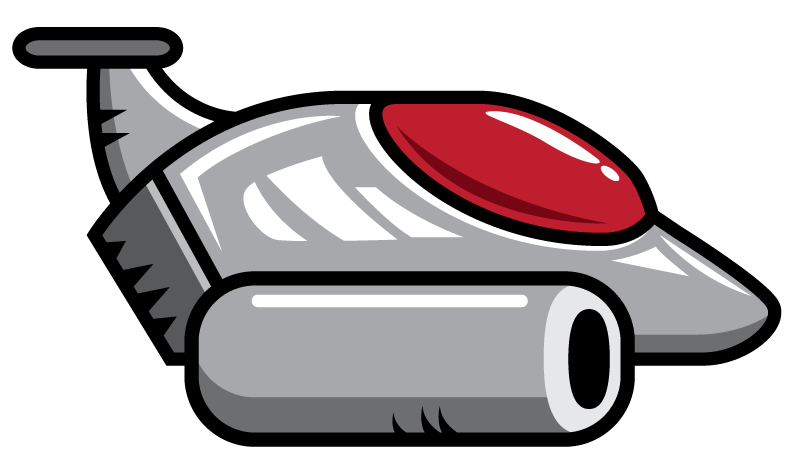
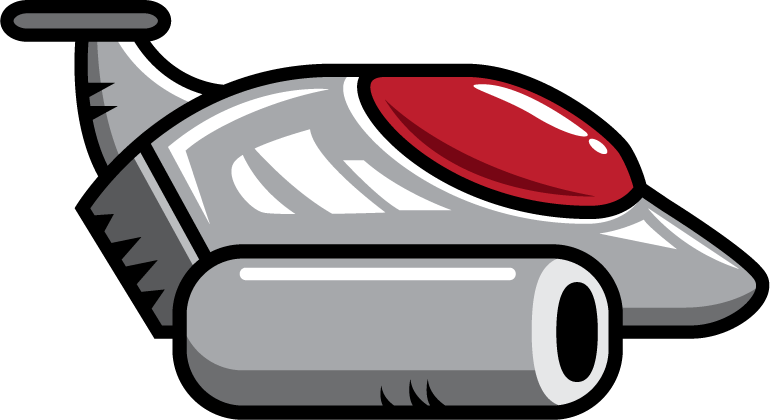
version 1.0 release

Changed region(s): [[0.0, 0.0, 1.0, 1.0]]

diff --git a/code/Level.py b/code/Level.py
@@ -1,3 +1,4 @@
+# code/Level.py
 import sys
 import math
 import random
@@ -41,8 +42,6 @@ class Level:
             clock.tick(60)
             self.window.fill((0, 0, 0)) 
             
-            player = next((ent for ent in self.entity_list if ent.name == 'Player'), None)
-            
             for event in pygame.event.get():
                 if event.type == pygame.QUIT:
                     pygame.quit()
@@ -56,8 +55,11 @@ class Level:
                             if self.menu_option == 0:
                                 self.reset_level() 
                             elif self.menu_option == 1:
-                                pygame.quit()
-                                sys.exit() 
+                                pygame.mixer_music.stop()
+                                return # Returns to the main menu instead of closing the game window
+
+            # Fetch the player entity after the event loop to ensure a fresh reference if reset_level was triggered
+            player = next((ent for ent in self.entity_list if ent.name == 'Player'), None)
 
             if player and not (self.game_over or self.victory):
                 if not player.is_falling and self.game_time > 0:
@@ -92,8 +94,10 @@ class Level:
                             self.entity_list.remove(ent)
 
                     elif ent.name in ['Enemy1', 'Enemy2']:
-                        # Collision with enemy triggers game over logic
-                        if not player.is_falling and player.rect.colliderect(ent.rect):
+                        player_hitbox = player.rect.inflate(-20, -20)
+                        enemy_hitbox = ent.rect.inflate(-20, -20)
+                        
+                        if not player.is_falling and player_hitbox.colliderect(enemy_hitbox):
                             player.is_falling = True
                             player.fuel = 0 
                             pygame.mixer_music.stop()
@@ -115,10 +119,8 @@ class Level:
             # Calculate zoom effect for the last 10 seconds
             time_zoom = 1.0
             if self.game_time <= 10 * 60 and self.game_time > 0 and not player.is_falling:
-                # Use sine wave to alternate scale between 1.0 and 1.3
                 time_zoom = 1.0 + abs(math.sin(pygame.time.get_ticks() / 150.0)) * 0.3
 
-            # Draw UI with larger fonts and yellow color. Time font is slightly larger (35) than fuel (25)
             self.level_text(35, f'{mins:02d}:{secs:02d}', C_YELLOW, (WIN_WIDTH - 70, 30), zoom=time_zoom)
             
             if player:
@@ -150,26 +152,21 @@ class Level:
         self.level_text(30, 'Sair', color_sair, (WIN_WIDTH // 2, WIN_HEIGHT // 2 + 50))
 
     def level_text(self, text_size: int, text: str, text_color: tuple, text_center_pos: tuple, zoom: float = 1.0):
-        # Create base font
         text_font = pygame.font.SysFont(name="Lucida Sans Typewriter", size=text_size, bold=True)
         
-        # Render main text and black outline text
         main_surf = text_font.render(text, True, text_color).convert_alpha()
         outline_surf = text_font.render(text, True, C_BLACK).convert_alpha()
         
-        # Scale surfaces if zoom is applied
         if zoom != 1.0:
             new_width = int(main_surf.get_width() * zoom)
             new_height = int(main_surf.get_height() * zoom)
             main_surf = pygame.transform.scale(main_surf, (new_width, new_height))
             outline_surf = pygame.transform.scale(outline_surf, (new_width, new_height))
             
-        # Draw black border offset in 8 directions
         for dx, dy in [(-2,-2), (2,-2), (-2,2), (2,2), (-2,0), (2,0), (0,-2), (0,2)]:
             outline_rect = outline_surf.get_rect(center=(text_center_pos[0] + dx, text_center_pos[1] + dy))
             self.window.blit(outline_surf, outline_rect)
             
-        # Draw main text in the center
         text_rect = main_surf.get_rect(center=text_center_pos)
         self.window.blit(main_surf, text_rect)
         

diff --git a/code/Enemy.py b/code/Enemy.py
@@ -5,8 +5,11 @@ from code.Entity import Entity
 
 class Enemy(Entity):
     def __init__(self, name: str, position: tuple):
-        # Apply the same 50x50 size conversion as the Player
-        super().__init__(name, position, size=(50, 50))
+        # Maintain proportion based on original sizes:
+        # Enemy1: 660x404 -> aspect ratio ~1.63
+        # Enemy2: 1149x701 -> aspect ratio ~1.64
+        # Target height = 50 (same as player). Target width = 50 * 1.64 = ~82
+        super().__init__(name, position, size=(82, 50))
         
         # Flip the image horizontally (x-axis) so it faces left
         self.surf = pygame.transform.flip(self.surf, True, False)

diff --git a/code/Menu.py b/code/Menu.py
@@ -34,11 +34,11 @@ class Menu:
 
             # Canto Inferior Esquerdo: Condição de vitória (Duas linhas)
             self.menu_text(20, "Vença voando", C_WHITE, (15, WIN_HEIGHT - 35), font_name="Lucida Sans Typewriter", draw_border=True, align="left")
-            self.menu_text(20, "por 2 minutos", C_WHITE, (15, WIN_HEIGHT - 20), font_name="Lucida Sans Typewriter", draw_border=True, align="left")
+            self.menu_text(20, "por 1 minuto", C_WHITE, (15, WIN_HEIGHT - 20), font_name="Lucida Sans Typewriter", draw_border=True, align="left")
 
             # Canto Inferior Direito: Comandos do jogo
-            self.menu_text(14, "Comandos:", C_WHITE, (WIN_WIDTH - 15, WIN_HEIGHT - 35), font_name="Lucida Sans Typewriter", draw_border=True, align="right")
-            self.menu_text(14, "Setas do Teclado", C_YELLOW, (WIN_WIDTH - 15, WIN_HEIGHT - 20), font_name="Lucida Sans Typewriter", draw_border=True, align="right")
+            self.menu_text(20, "Comandos:", C_WHITE, (WIN_WIDTH - 15, WIN_HEIGHT - 35), font_name="Lucida Sans Typewriter", draw_border=True, align="right")
+            self.menu_text(20, "Setas do Teclado", C_YELLOW, (WIN_WIDTH - 15, WIN_HEIGHT - 20), font_name="Lucida Sans Typewriter", draw_border=True, align="right")
 
             pygame.display.flip()
 